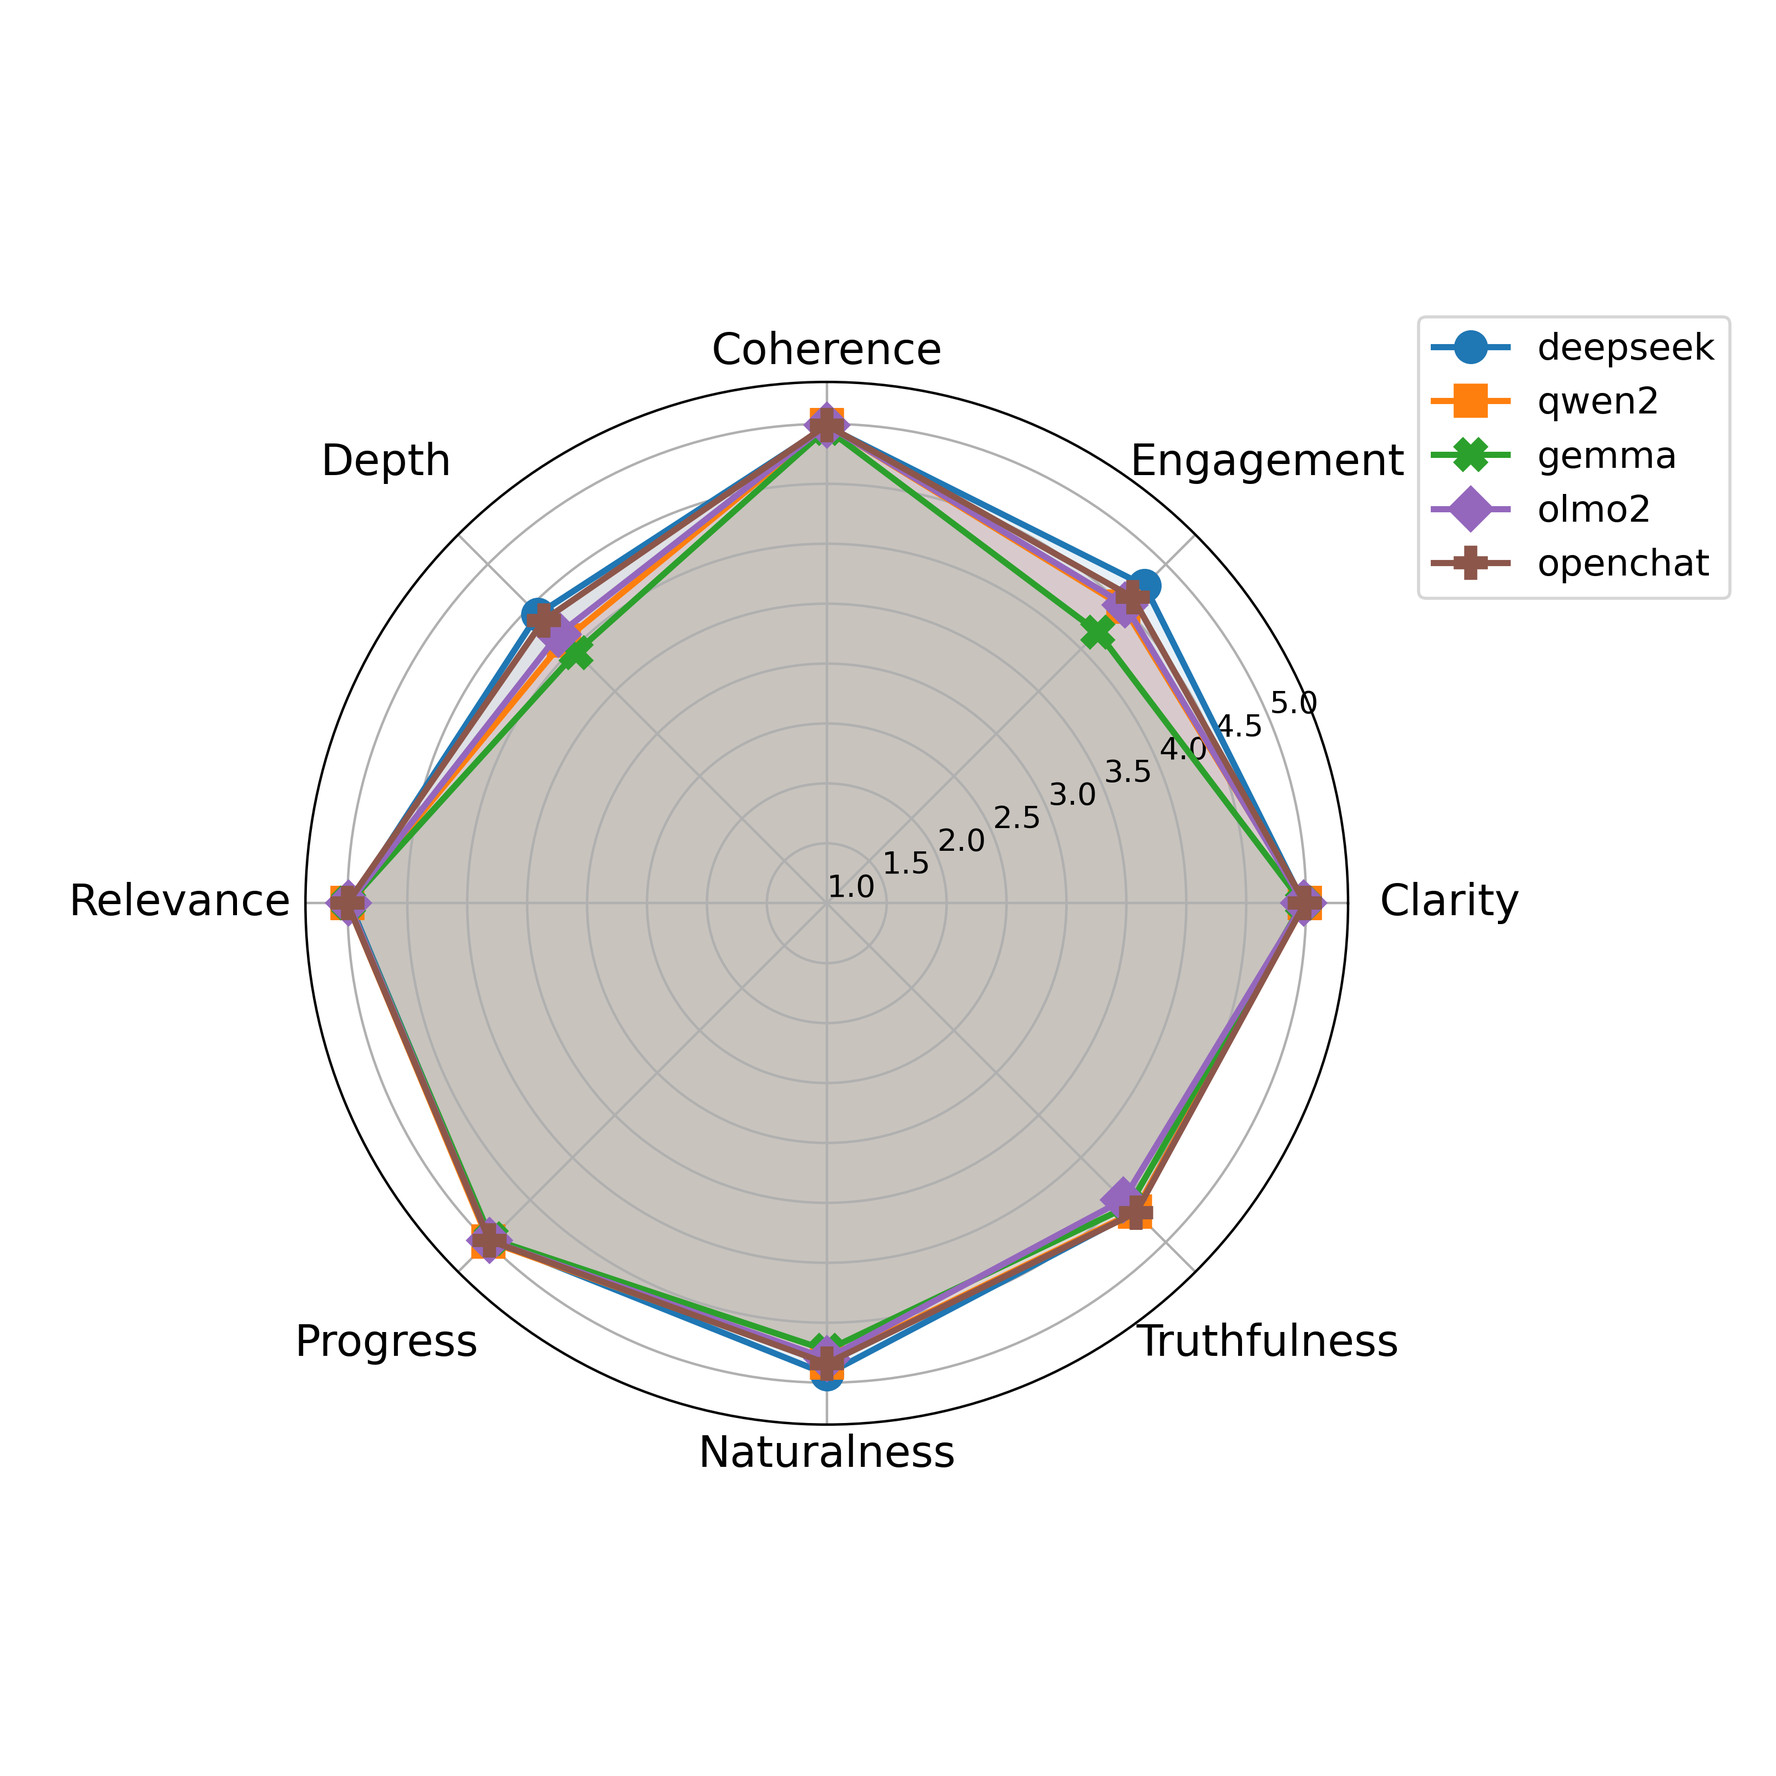
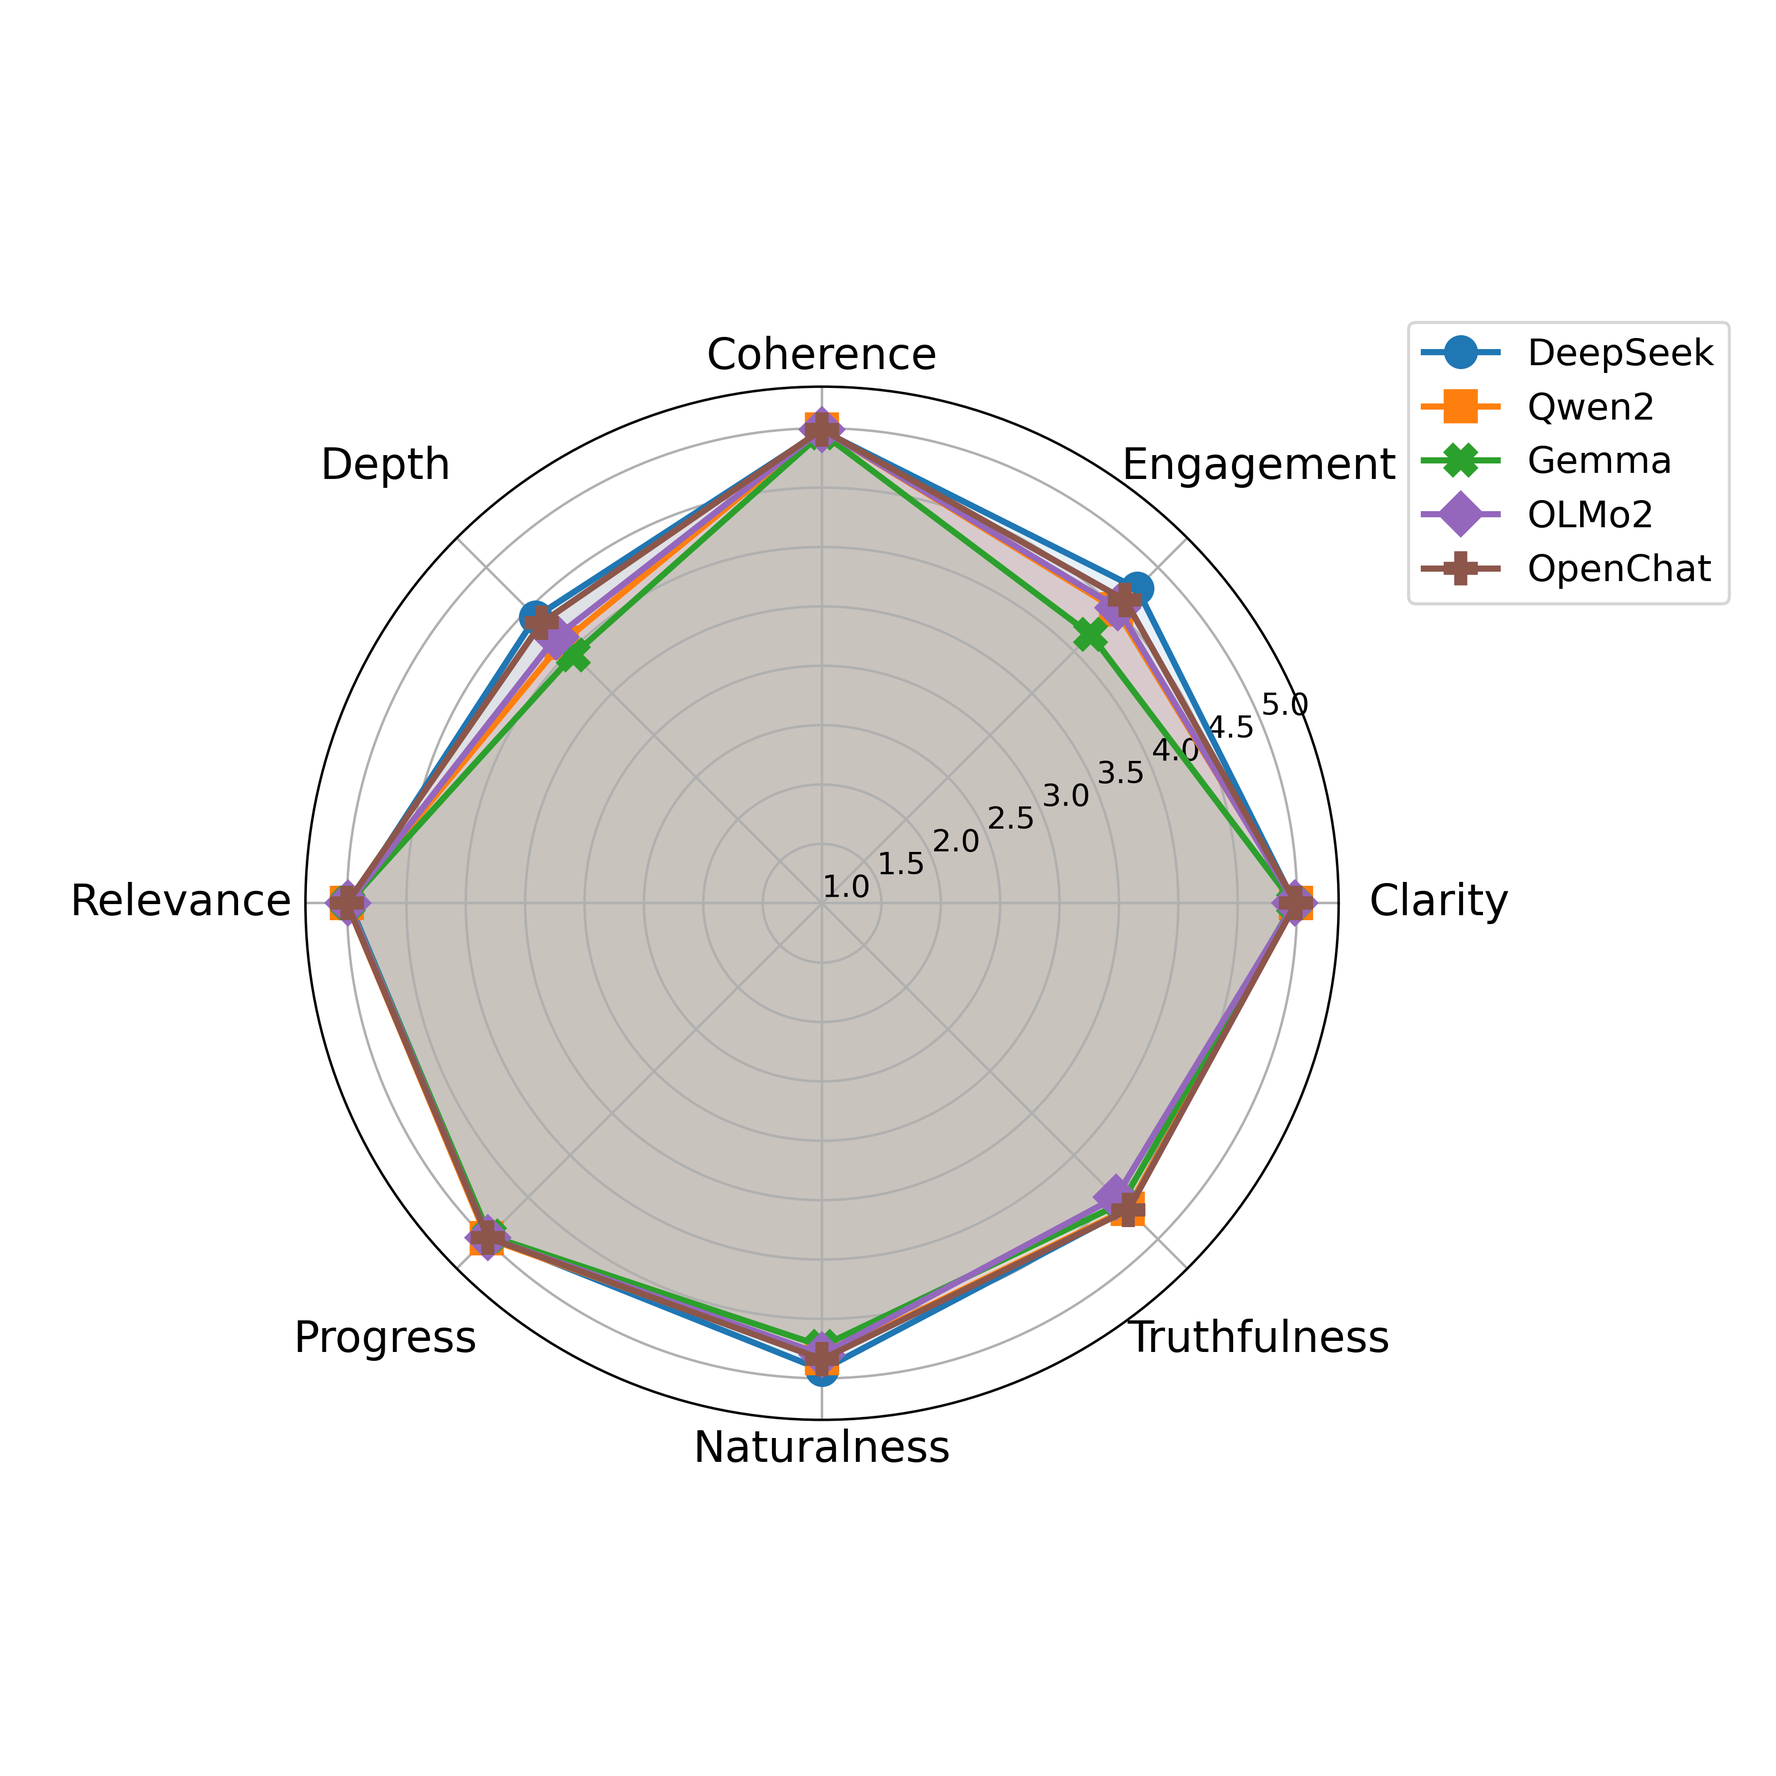
update figure and plot codes

diff --git a/case_study/human_alignment_and_significant_test.py b/case_study/human_alignment_and_significant_test.py
@@ -13,7 +13,16 @@ except:
     metrics = ["Clarity", "Engagement", "Coherence", "Depth", "Relevance", "Progress", "Naturalness", "Truthfulness"]
     metrics = [m.lower() for m in metrics]
 
-# models = ['deepseek', 'qwen2', 'gemma', 'olmo2', 'openchat', 'llama3', 'phi4']
+model_name_map = {
+    'deepseek': 'DeepSeek', 
+    'qwen2': 'Qwen2', 
+    'gemma': 'Gemma', 
+    'olmo2': 'OLMo2', 
+    'openchat': 'OpenChat', 
+    'llama3': 'Llama3', 
+    'phi4': 'Phi4',
+    'gpt4': 'GPT-4'
+}
 
 def measure_correlation(human_annotation_csv, model_evaluation_csv, filter_filename, tau_axis):
     # Human annotations
@@ -41,7 +50,7 @@ def measure_correlation(human_annotation_csv, model_evaluation_csv, filter_filen
     # Subplot 2: Model evaluations
     sns.boxplot(data=model_df_filtered.drop(columns=['filename', 'conversation_id', 'title'], errors='ignore'), 
                 orient='h', palette='pastel', ax=axes[1])
-    model_name = filter_filename.split('_')[0].split('-')[1] if filter_filename else 'all'
+    model_name = filter_filename.split('_')[0].split('-')[1] if filter_filename else 'All'
     axes[1].set_title(f'Model-{model_name} Evaluations')
     axes[1].set_yticklabels([]) # Remove the tick labels for the second subfigure
     axes[1].tick_params(axis='x', labelsize=14)
@@ -50,7 +59,7 @@ def measure_correlation(human_annotation_csv, model_evaluation_csv, filter_filen
     plt.tight_layout()
     
     # Save figure with consistent naming
-    save_path = human_annotation_csv.replace('csv', 'png').replace('data/human_annotation', 'figure').replace('.png', f'_compare_{model_name}.png')
+    save_path = human_annotation_csv.replace('csv', 'png').replace('result/human_annotation', 'figure').replace('.png', f'_compare_{model_name}.png')
     plt.savefig(save_path, dpi=500, bbox_inches='tight')
     # plt.show()
 
@@ -143,8 +152,7 @@ def caculate_alignment(tau_values, model_name=None, tau_axis=None):
     plt.savefig(f'figure/{title2}.png', dpi=500, bbox_inches='tight')
 
 def plot_all_correlation_comparison_over_models(human_annotation_csv, model_evaluation_csv, filenames=None):
-    """
-    Figure 6: Comparison between human annotation and model evaluation scores.
+    """Figure 8: Distribution of model evaluations compared to human annotations across all metrics.
     """
     # Load data
     human_df = pd.read_csv(human_annotation_csv).drop(columns=['comment'], errors='ignore').fillna(0)
@@ -166,6 +174,8 @@ def plot_all_correlation_comparison_over_models(human_annotation_csv, model_eval
         # Filter data for this filename
         human_sample = human_df[human_df['filename'] == filename].drop(columns=['filename', 'conversation_id', 'title'], errors='ignore')
         model_sample = model_df[model_df['filename'] == filename].drop(columns=['filename', 'conversation_id', 'title'], errors='ignore')
+        human_sample.columns = [c.capitalize() for c in human_sample.columns]
+        model_sample.columns = [c.capitalize() for c in model_sample.columns]
 
         # Melt to long-form
         human_melt = human_sample.melt(var_name='Metric', value_name='Score')
@@ -175,9 +185,9 @@ def plot_all_correlation_comparison_over_models(human_annotation_csv, model_eval
         model_melt['Source'] = 'Model'
 
         combined_df = pd.concat([human_melt, model_melt], ignore_index=True)
+    
 
         # Draw boxplot
-        # sns.boxplot(data=combined_df, x='Score', y='Metric', hue='Source', palette='colorblind', ax=ax, fliersize=5, fill=False,  width=0.5)
         sns.violinplot(data=combined_df, x='Score', y='Metric', hue='Source', ax=ax, split=True, inner="quart", fill=False, palette={"Model": "red", "Human": ".35"}) # , palette='pastel', , bw_adjust=0.5, inner="quart"
 
         if idx % n_cols > 0:
@@ -192,7 +202,10 @@ def plot_all_correlation_comparison_over_models(human_annotation_csv, model_eval
         ax.tick_params(axis='y', labelsize=10)
         ax.set_ylabel('')  # Remove the y-axis label ('Metric')
         ax.set_xlabel('')  # Remove the y-axis label ('Score')
-        ax.set_title(f'{filename.split("_")[0].split("-")[1]}', fontsize=10)
+        model_name = filename.split("_")[0].split("-")[1]
+        model_name = model_name_map[model_name]
+        print('>'*50, model_name)
+        ax.set_title(f'{model_name}', fontsize=10)
         # ax.legend(loc='lower right', fontsize=8, frameon=True)
                 # Don't add legend to individual plots
         ax.legend_.remove()
@@ -210,7 +223,9 @@ def plot_all_correlation_comparison_over_models(human_annotation_csv, model_eval
         fig.delaxes(axes[j])
 
     plt.tight_layout(rect=[0, 0, 1, 0.95])
-    save_path = human_annotation_csv.replace('csv', 'compare_by_filename.png').replace('data/human_annotation', 'figure')
+    
+    save_path = human_annotation_csv.replace('csv', 'compare_by_filename.png').replace('result/human_annotation', 'figure')
+    print(f'Save: {save_path}')
     plt.savefig(save_path, dpi=500, bbox_inches='tight')
     # plt.show()
 
@@ -260,7 +275,7 @@ def plot_metric_correlations_all(human_annotation_csv, model_evaluation_csv):
     plt.tight_layout()
 
     # Save
-    save_path = human_annotation_csv.replace('csv', 'correlation_alltypes_avg.png').replace('data/human_annotation', 'figure')
+    save_path = human_annotation_csv.replace('csv', 'correlation_alltypes_avg.png').replace('result/human_annotation', 'figure')
     plt.savefig(save_path, dpi=500, bbox_inches='tight')
     # plt.show()
 
@@ -286,6 +301,9 @@ def plot_metric_correlations_all_with_significance(human_annotation_csv, model_e
     # Drop non-metric columns
     human_metrics = human_df.drop(columns=['filename', 'conversation_id', 'title'], errors='ignore')
     model_metrics = model_df.drop(columns=['filename', 'conversation_id', 'title'], errors='ignore')
+
+    human_metrics.columns = [c.capitalize() for c in human_metrics.columns]
+    model_metrics.columns = [c.capitalize() for c in model_metrics.columns]
 
     # Compute correlations with p-values
     records = []
@@ -326,9 +344,9 @@ def plot_metric_correlations_all_with_significance(human_annotation_csv, model_e
 
     corr_df['Significance'] = corr_df['p'].apply(significance_marker)
 
+
     # Plot
     # plt.figure(figsize=(4, len(human_metrics.columns) * 0.3))
-    
     plt.figure(figsize=(4, 1.8))
     bars = sns.barplot(data=corr_df, x='Correlation', y='Metric', hue='Type', palette='pastel')
 
@@ -348,14 +366,13 @@ def plot_metric_correlations_all_with_significance(human_annotation_csv, model_e
     plt.yticks(fontsize=8)
     plt.xlim(-0.45, 0.45)
     plt.axvline(0, color='black', linewidth=0.8, linestyle='--')
-    # plt.title('Model-Human Correlations per Metric (with significance)')
     plt.ylabel('')
     plt.xlabel('')
     plt.legend(loc='upper left', bbox_to_anchor=(0, 1), fontsize=6)
     plt.tight_layout()
 
     # Save figure
-    save_path = human_annotation_csv.replace('csv', 'correlation_alltypes_sig.png').replace('data/human_annotation', 'figure')
+    save_path = human_annotation_csv.replace('csv', 'correlation_alltypes_sig.png').replace('result/human_annotation', 'figure')
     plt.savefig(save_path, dpi=500, bbox_inches='tight')
     # plt.show()
 
@@ -376,7 +393,7 @@ def human_alignment(human_annotation_csv, model_evaluation_csv, tau_axis):
     # Overall
     tau_values = measure_correlation(human_annotation_csv=human_annotation_csv, model_evaluation_csv=model_evaluation_csv, filter_filename=None, tau_axis=tau_axis)
     # Figure 6:Comparison between human annotation and model evaluation scores.
-    caculate_alignment(tau_values, model_name='all',tau_axis=tau_axis)
+    caculate_alignment(tau_values, model_name='All',tau_axis=tau_axis)
 
 def analysis_human_annotator(human_annotation_csv, model_evaluation_csv):
     # 1. Calculate alignment over sample and visulize it
@@ -385,8 +402,6 @@ def analysis_human_annotator(human_annotation_csv, model_evaluation_csv):
     human_alignment(human_annotation_csv, model_evaluation_csv, tau_axis='metric')
     # 3. Calculate alignment over mean metric
     human_alignment(human_annotation_csv, model_evaluation_csv, tau_axis='mean')
-    # 4. Plot overall comparsion between models and human
-    plot_all_correlation_comparison_over_models(human_annotation_csv, model_evaluation_csv, filenames=json_files)    
 
 def compare_kappa_annotations_by_index(file1, file2, annotation_columns, output_file):
     """
@@ -428,7 +443,7 @@ def compare_kappa_annotations_by_index(file1, file2, annotation_columns, output_
     plt.tight_layout()
     
     # Save figure with consistent naming
-    save_path = output_file.replace('csv', 'png').replace('data/human_annotation', 'figure').replace('.png', f'_compare_annotators.png')
+    save_path = output_file.replace('csv', 'png').replace('result/human_annotation', 'figure').replace('.png', f'_compare_annotators.png')
     plt.savefig(save_path, dpi=500, bbox_inches='tight')
     # plt.show()
 
@@ -484,6 +499,52 @@ def compare_kappa_annotations_by_index(file1, file2, annotation_columns, output_
 
     return kappa_results
 
+def boxplot_human_model_comparison(human_annotation_csv, model_evaluation_csv, filter_filename=None):
+    """Figure 6: Comparison between human annotation and model evaluation scores.
+    """
+    # Human annotations
+    human_df = pd.read_csv(human_annotation_csv)
+    human_df = human_df.drop(columns=['comment'], errors='ignore')
+    human_df = human_df.fillna(0)
+    human_df_filtered = human_df.loc[human_df['filename'] == filter_filename] if filter_filename else human_df
+
+    # Model evaluations
+    model_df = pd.read_csv(model_evaluation_csv)
+    model_df = model_df.fillna(0)
+    model_df_filtered = model_df.loc[model_df['filename'] == filter_filename] if filter_filename else model_df
+
+    # Plotting two subplots: Human vs Model
+    fig, axes = plt.subplots(1, 2, figsize=(7, 3))  # 1 row, 2 columns
+
+    # Subplot 1: Human annotations
+    human_df_filtered = human_df_filtered.drop(columns=['filename', 'conversation_id', 'title'], errors='ignore')
+    human_df_filtered.columns = [c.capitalize() for c in human_df_filtered.columns]
+    sns.boxplot(data=human_df_filtered, orient='h', palette='pastel', ax=axes[0])
+    axes[0].set_title('Human Annotations')
+    axes[0].tick_params(axis='y', labelsize=14)
+    axes[0].tick_params(axis='x', labelsize=14)
+    # axes[0].set_xlim(0.8, 5.2)
+
+    # Subplot 2: Model evaluations
+    model_df_filtered = model_df_filtered.drop(columns=['filename', 'conversation_id', 'title'], errors='ignore')
+    model_df_filtered.columns = [c.capitalize() for c in model_df_filtered.columns]
+    sns.boxplot(data=model_df_filtered, orient='h', palette='pastel', ax=axes[1])
+    if filter_filename:
+        model_name = f'Model_{filter_filename.split('_')[0].split('-')[1]}'
+    else:
+        model_name = 'Model'
+    axes[1].set_title(f'{model_name} Evaluations')
+    axes[1].set_yticklabels([]) # Remove the tick labels for the second subfigure
+    axes[1].tick_params(axis='x', labelsize=14)
+    # axes[1].set_xlim(0.8, 5.2)
+
+    plt.tight_layout()
+    
+    # Save figure with consistent naming
+    save_path = human_annotation_csv.replace('csv', 'png').replace('result/human_annotation', 'figure').replace('.png', f'_compare_{model_name}.png')
+    plt.savefig(save_path, dpi=500, bbox_inches='tight')
+    # plt.show()
+
 
 if __name__ == "__main__":
     # print('='*100)
@@ -497,16 +558,22 @@ if __name__ == "__main__":
         'T-phi4_L-phi4_E-phi4_11269383_corrected.json',
     ]
     # Step 1: Compute kappa value between human annotators and merge them
-    human_annotation_csv_1='data/human_annotation/p25_judge1.csv'
-    human_annotation_csv_2='data/human_annotation/p25_judge2.csv'
+    human_annotation_csv_1='result/human_annotation/p25_judge1.csv'
+    human_annotation_csv_2='result/human_annotation/p25_judge2.csv'
     human_annotation_csv_merged = human_annotation_csv_1.replace('.csv', '_merged.csv')
-    model_evaluation_csv='data/human_annotation/human_eval_conversation_mono_p25.csv'
+    model_evaluation_csv='result/human_annotation/human_eval_conversation_mono_p25.csv'
 
     # Compare the agreement of the two annotators
     # compare_kappa_annotations_by_index(file1=human_annotation_csv_1, file2=human_annotation_csv_2, annotation_columns=metrics, output_file=human_annotation_csv_merged)
     
     # Step 2: Human alignment analysis
-    # Figure 6:
-    analysis_human_annotator(human_annotation_csv=human_annotation_csv_merged, model_evaluation_csv=model_evaluation_csv)
+    # Figure 6: Comparison between human annotation and model evaluation scores.
+    boxplot_human_model_comparison(human_annotation_csv=human_annotation_csv_merged, model_evaluation_csv=model_evaluation_csv)
+
     # Figure 7: Human alignment correlation coefficients
-    # plot_metric_correlations_all_with_significance(human_annotation_csv=human_annotation_csv_merged, model_evaluation_csv=model_evaluation_csv)
+    plot_metric_correlations_all_with_significance(human_annotation_csv=human_annotation_csv_merged, model_evaluation_csv=model_evaluation_csv)
+
+    # Figure 8: Distribution of model evaluations compared to human annotations across all metrics.
+    plot_all_correlation_comparison_over_models(human_annotation_csv=human_annotation_csv_merged, model_evaluation_csv=model_evaluation_csv, filenames=json_files)    
+
+    # analysis_human_annotator(human_annotation_csv=human_annotation_csv_merged, model_evaluation_csv=model_evaluation_csv)

diff --git a/utils/plot_article_topic_distribution.py b/utils/plot_article_topic_distribution.py
@@ -150,6 +150,8 @@ def plot_radar_with_parent_bars(df):
     plt.show()
 
 def plot_sunburst_topics(df):
+    """Figure 2: Hierarchical distribution of topics across 17 domains with corresponding topic counts.
+    """
     import matplotlib.pyplot as plt
     import seaborn as sns
     import plotly.express as px
@@ -172,4 +174,5 @@ if __name__ == "__main__":
     df = pd.read_csv('data/tasks_per_topic_domain.csv')
     # plot_radar_with_topic_bars(df)
     # plot_radar_with_parent_bars(df)
+    # Figure 2: Hierarchical distribution of topics across 17 domains
     plot_sunburst_topics(df)

diff --git a/utils/plot_llm_rubric_results.py b/utils/plot_llm_rubric_results.py
@@ -9,6 +9,9 @@ import numpy as np
 
 def plot_llm_rubric(fpath):
     """
+    Figure 3: Evaluation results of homogeneous learning using rubric-based metrics across different LLMs
+    Figure 4: Evaluation results of heterogeneous learning using rubric-based metrics across different LLMs.
+
     Data example:
                     Clarity  Engagement  Coherence  Depth  Relevance  Progress  Naturalness  Truthfulness
     LLMs                                                                                               

diff --git a/utils/plot_result_per_domain.py b/utils/plot_result_per_domain.py
@@ -95,6 +95,9 @@ def compute_result_per_domain(fpath):
 
 
 def compute_result_per_metric(fpaths):
+    """
+    Figure 5: Multiple rubric evaluation scores of all LLMs over various domains
+    """
     # Load domain order
     df_tasks_per_domain = pd.read_csv(file_tasks_per_domain)
     domains = df_tasks_per_domain['Domain'].unique().tolist()
